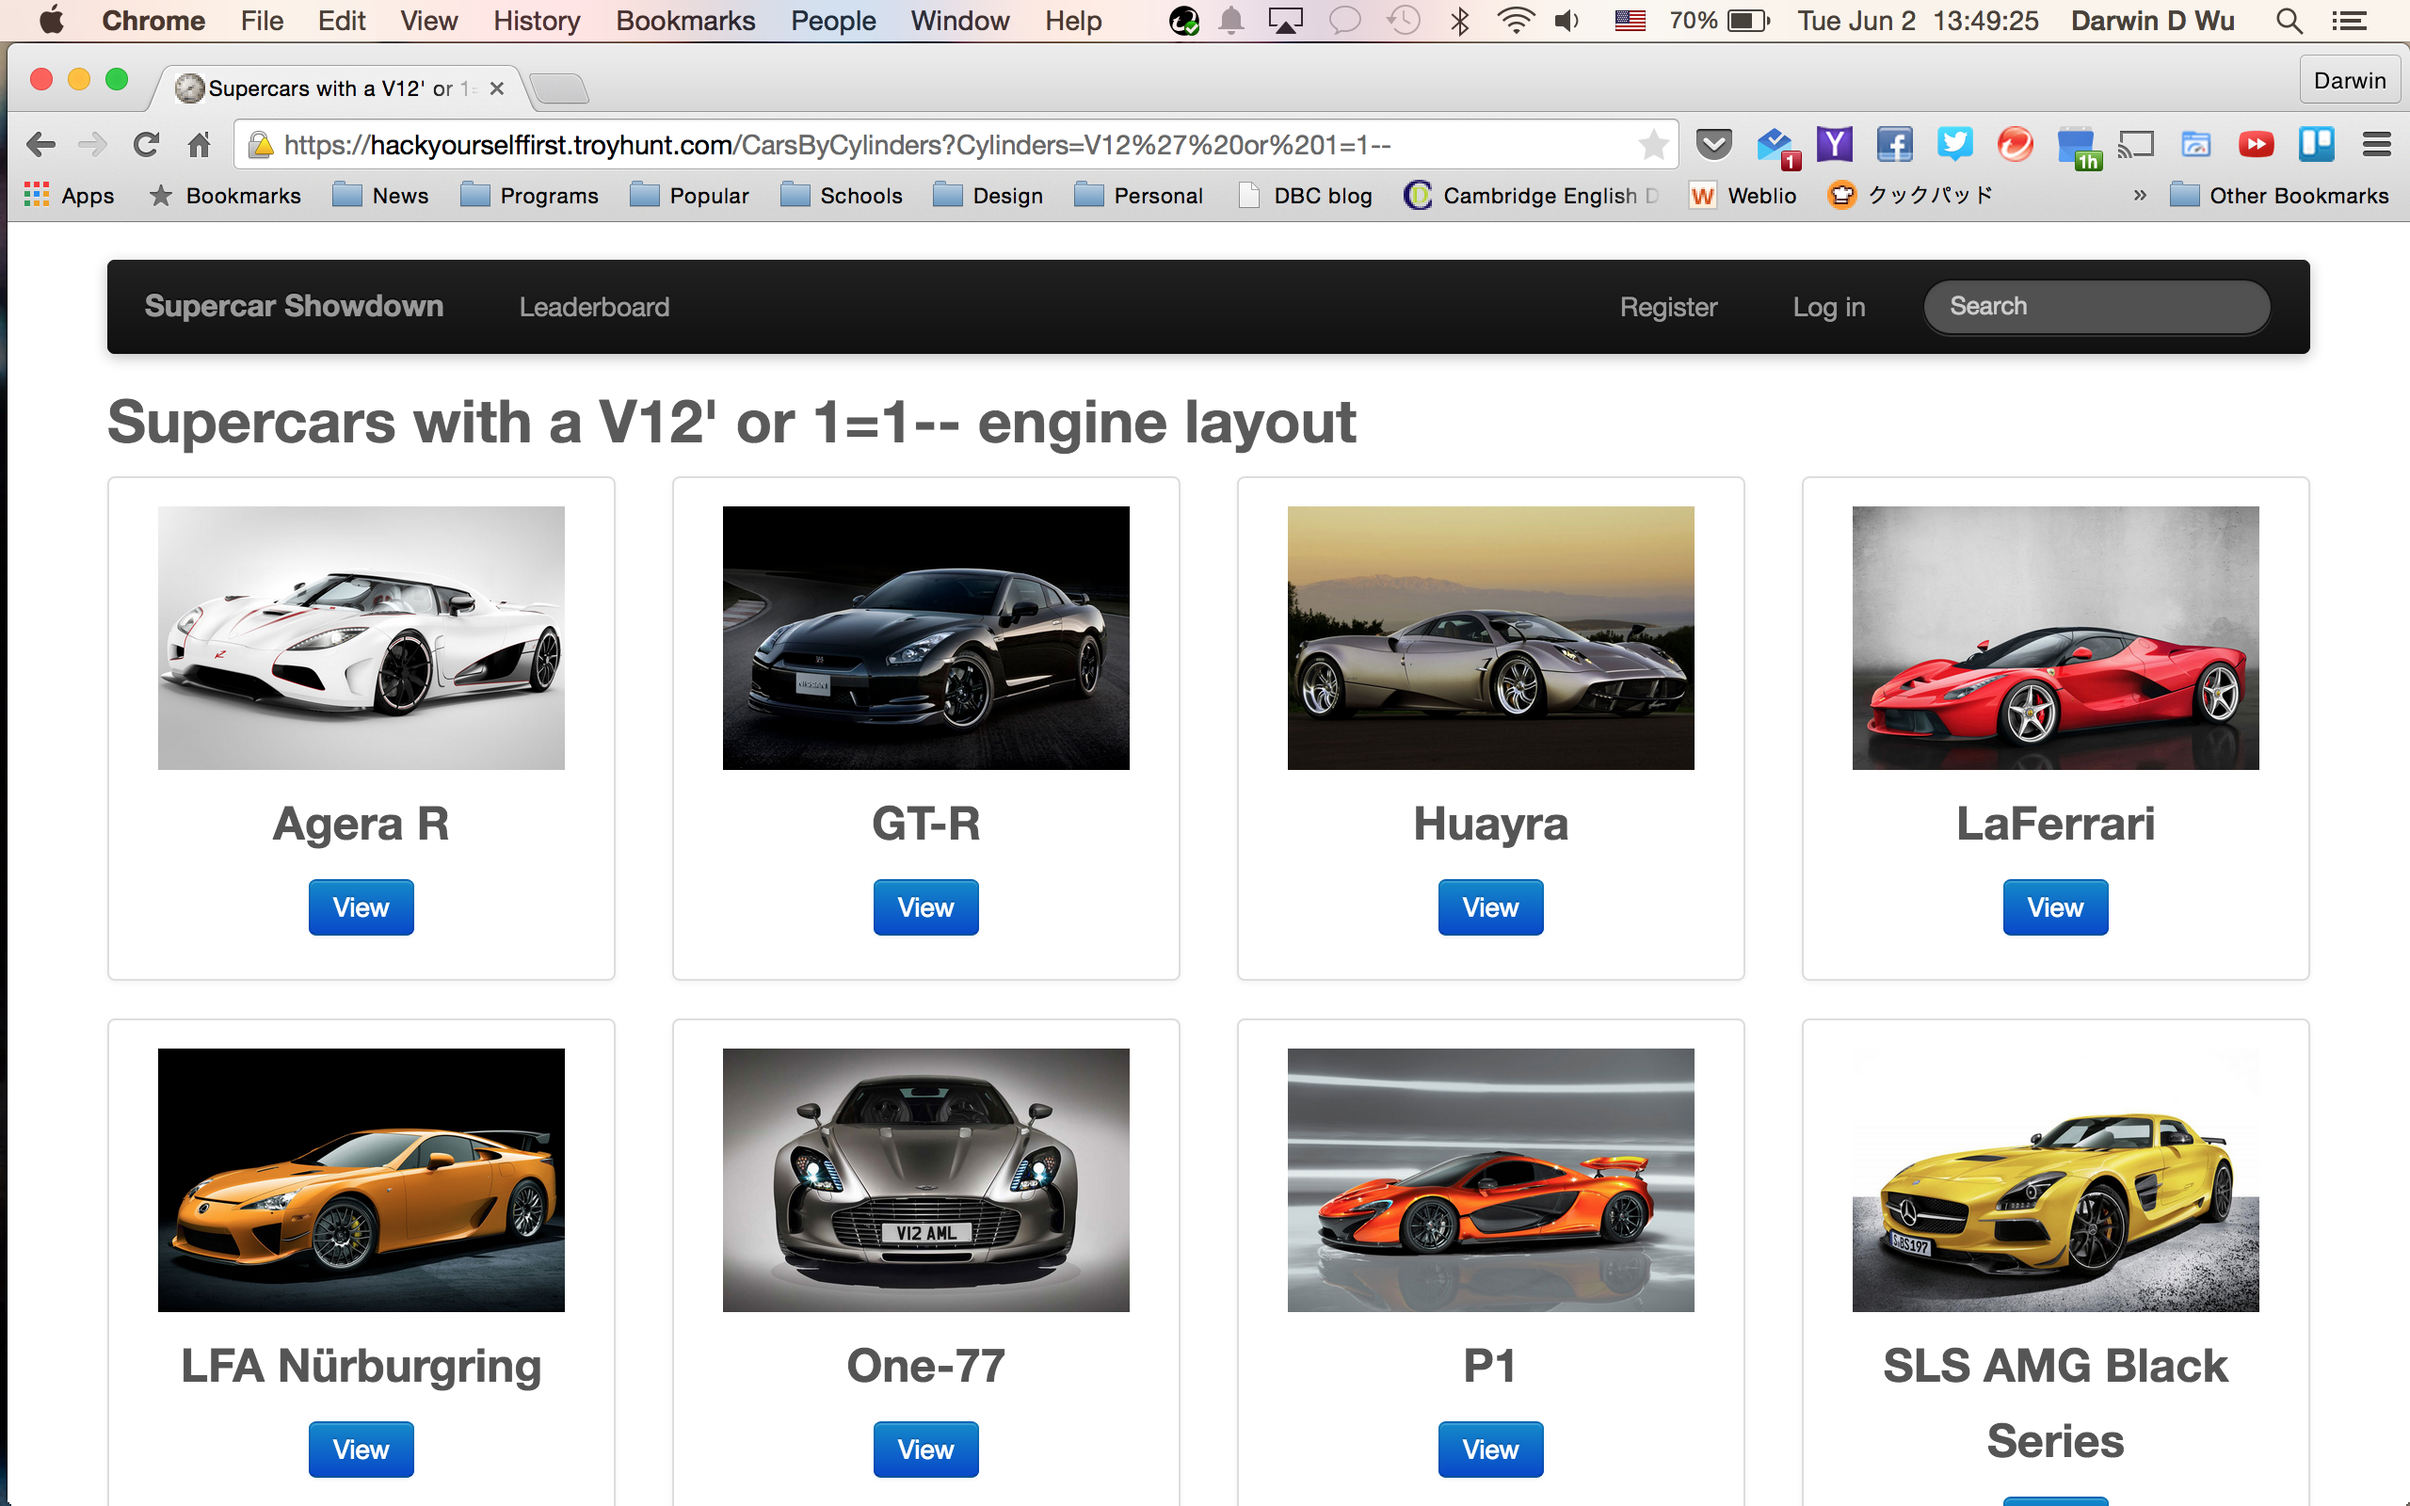
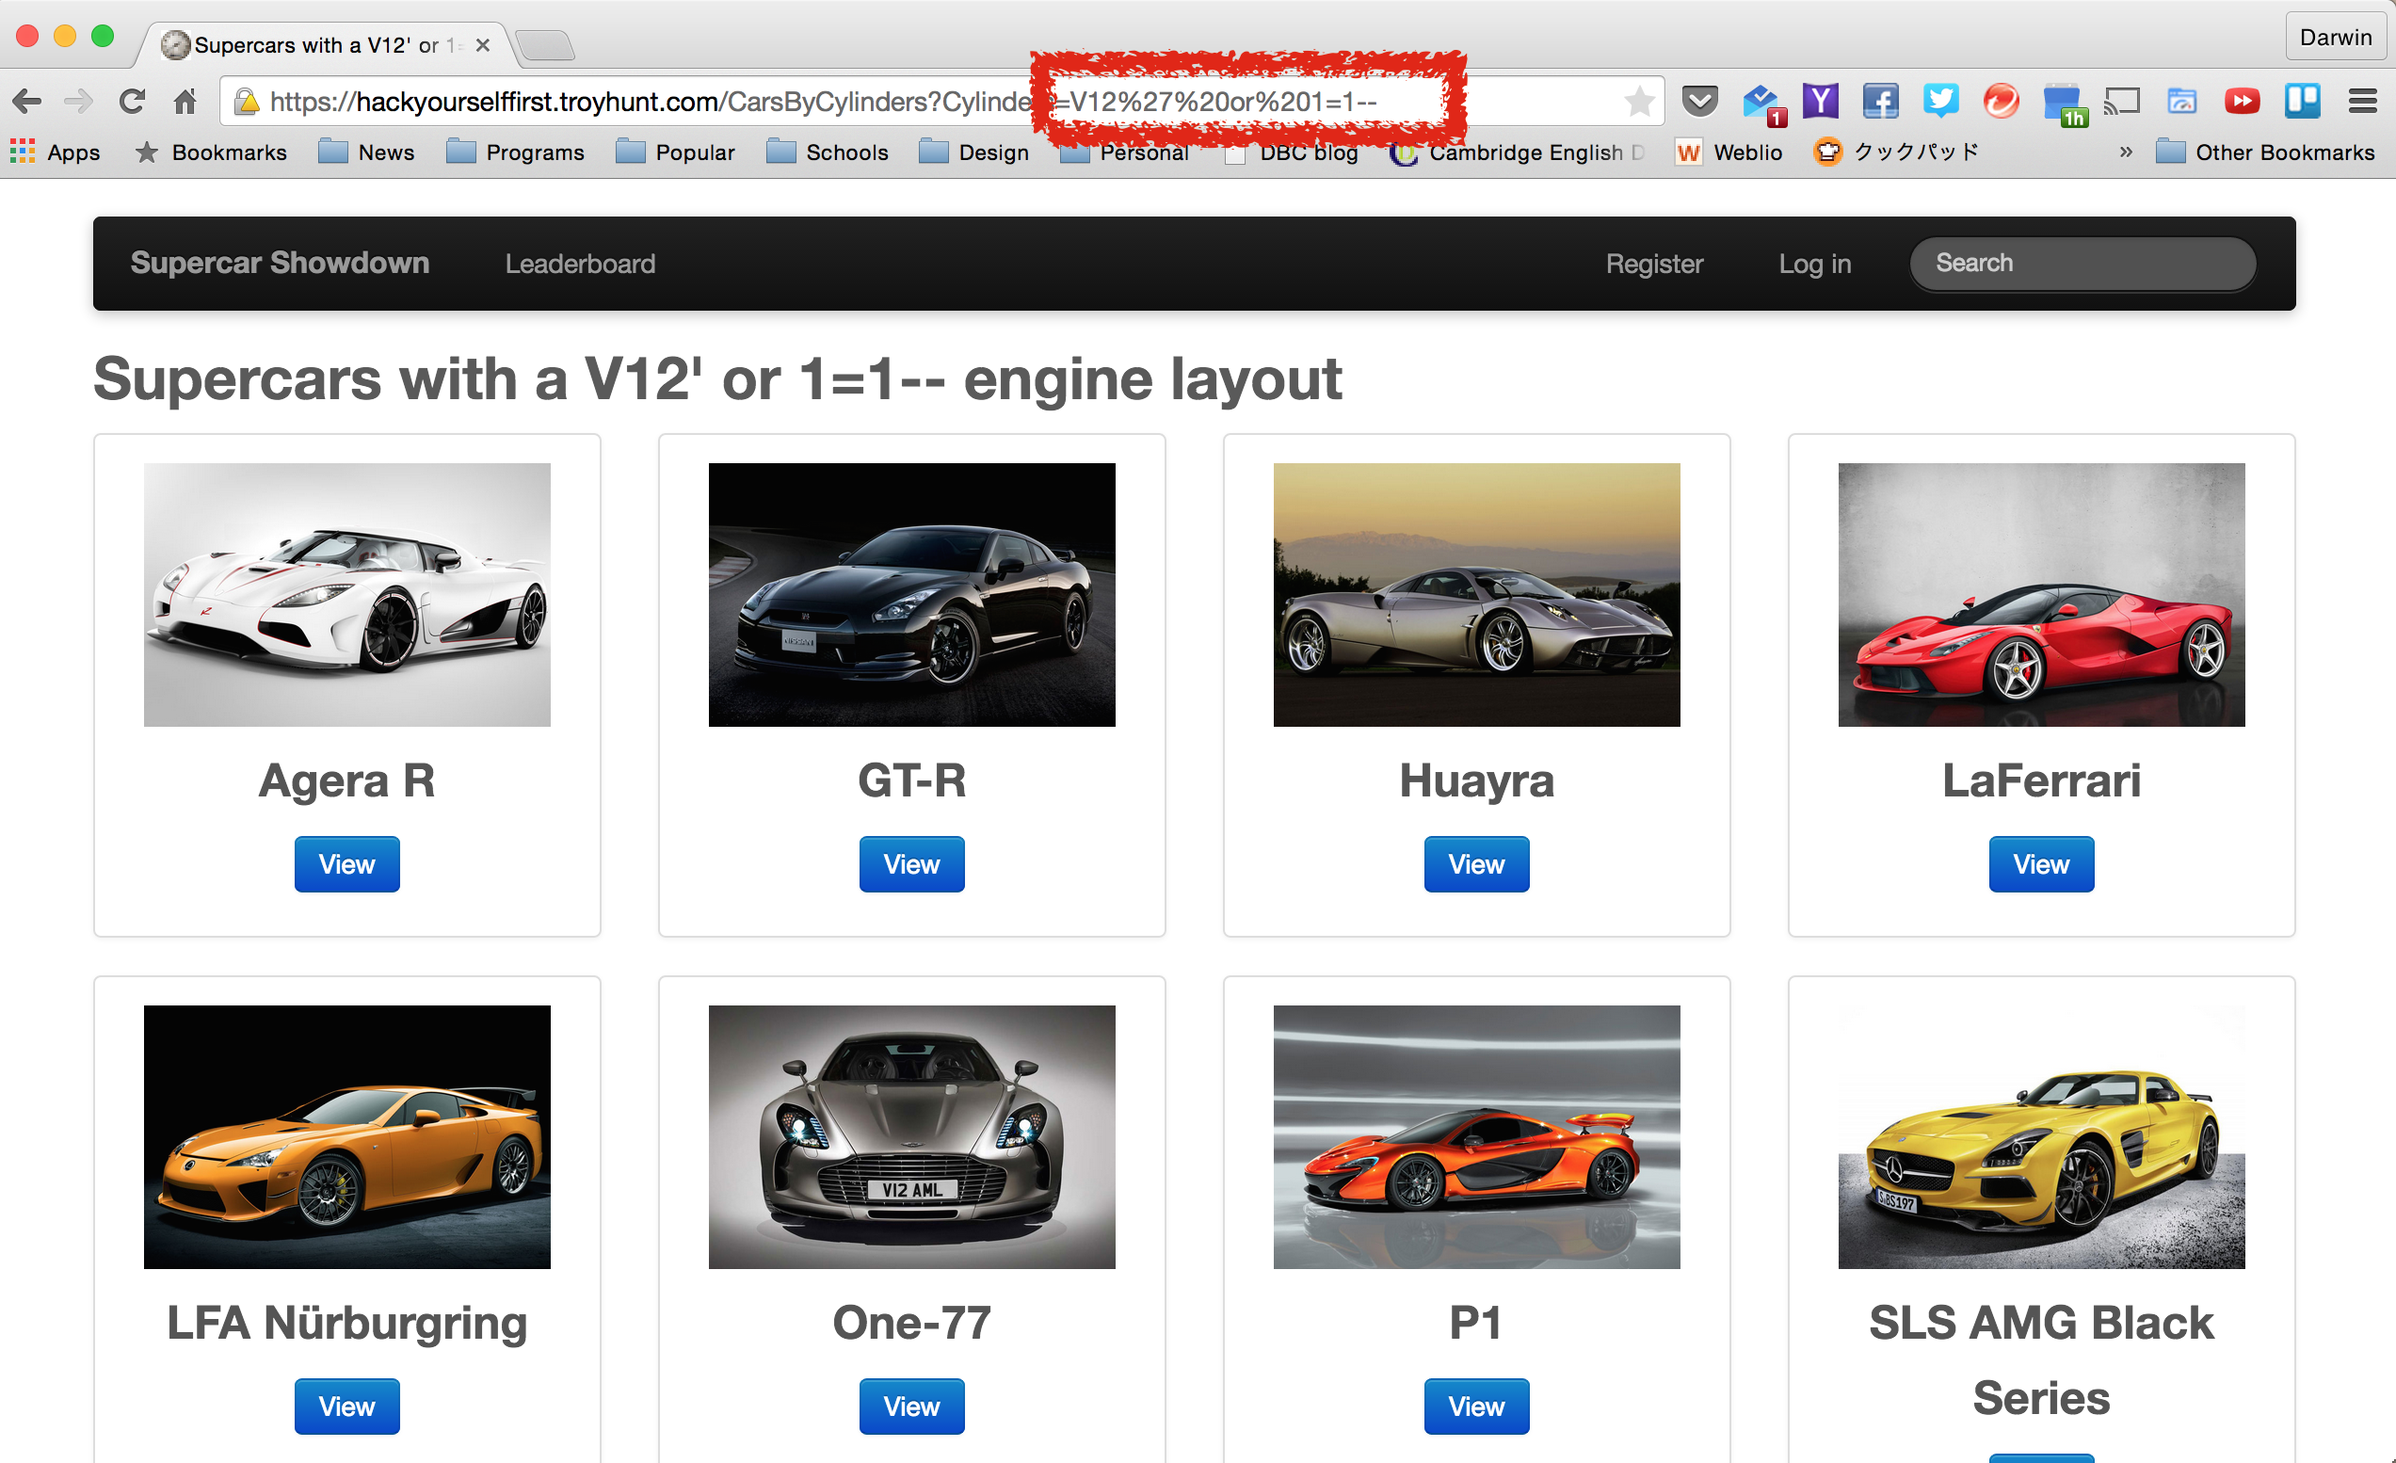
Added Union Exploitation

diff --git a/sql-injection/README.md b/sql-injection/README.md
@@ -4,29 +4,66 @@ Samples of security vulnerabilities
 ## About
 A SQL Injection attack consists of insertion or "injection" of a SQL query via the input data from the client to the application. A successful SQL injection exploit can read sensitive data from the database, modify database data (Insert/Update/Delete), execute administration operations on the database (such as shutdown the DBMS), and more!  
 
-- Always True Injection
-- Error Based Injection
-- Boolean Injection
-- Time Based Injection
-- Blind Injection
+- Standard Injection
+- Union Exploitation
+- Error Based Exploitation
+- Boolean Exploitation
+- Time Delay Exploitation
   
 etc.
 
 
-#### Always True Injection
-One of the most famous attacks are the `1=1 Always True` attack. If this injection is successful, the attacker will be able to pull out all the data from the table. The sample below is a example of an injection from the URL.
+#### Standard Injection
+One of the most famous attacks are the `1=1 Always True` standard injections. If this injection is successful, the attacker will be able to pull out all the data from the current table. The sample below is a example of an injection from the URL.
 ```
 www.example.com/users/1' or 1=1--
 ```
-![Always True Injection sample](img/always-true.png)
-Basicly SQL injection always starts with a quote(`' or "`), because when the sample url above is used to query the database, the underlying SQL query will most likely to be a string like this.
+
+Sample Picture
+![Standard Always True Injection sample](img/always-true.png)
+*%27 and %20 is how the browser interpret ' and space*
+
+
+Basicly SQL injections always start with a quote(`' or "`), because when the sample url above is used to query the database, the underlying SQL query will most likely to be a string like this.
 ```sql
 SELECT * FROM users
 WHERE users.id = '1'
 ```
 Therefore, adding a quote to the end of the URL will end that query and you are able to add additional commands to it. `1=1` or `x=x` are the most seen examples but it doesn't matter what you put at both sides of the `=` as long as they are the same things. The result of this query will be always be `true`, which means that the database will take out everything it can find and that means *everything*.
-The `--` after `1=1` is the comment syntax in SQL. By adding this to the end of the injection, it will comment out any other following commands if they exist. Therefore the injected query will be the last thing for the database to see, and will give the hacker everything they are looking for.
+The `--` after `1=1` is the comment syntax in SQL. By adding this to the end of the injection, it will comment out any other following commands after the injected query. Therefore the injected query will be the last thing for the database to see, and will give the hacker everything they are looking for.
 
 
-#### Error Based Injection
-Error based injections are a way for an attacker to gain information about the database by intentionally passing the wrong syntax when injecting queries.
+
+#### Union Exploitation
+The Union operator is used in SQL injections to join a extra query to the original query purposely by the attacker. The result of the forged query will be joined with the original query and allows the attacker to gain access to the columns and values of other tables. An example of a Union Injection in the URL will look like this.
+```
+www.example.com/users/1' union select 1,1 from vote--
+```
+The SQL query in the example above is trying to do something like this.
+```
+SELECT * FROM users
+WHERE users.id = 1
+UNION
+SELECT 1, 1 FROM votes
+```
+What this query is trying to do is to first select a user from the user table with the id 1 *and also* select the column 1 and 1 from the table votes. I suppossed some people are confused at this point. What in the world does `1, 1` do? This is actually a combination of Union Exploitation and Error Based Exploitation (I will go into details about this later). In the place of `1, 1`, it would be replaced column names of the table the attacker is looking for. So I think it will make more sense if I write it like this.
+```
+SELECT * FROM users
+WHERE users.id = 1
+UNION
+SELECT votes.id, votes.user_id FROM votes
+```
+This is an effective way of extracting values from the database when you know the name of the tables or columns.
+
+Abstract example
+```
+<URL>' union select <column name> from <table name>
+```
+
+
+
+#### Error Based Exploitation
+Error based injections are a way for an attacker to gain information about the database by intentionally passing the wrong syntax when injecting queries. It's a way for an attacker to guess what kind of tables or columns there are in the database.  
+  
+Sample Picture
+![Union Exploitation sample](img/union.png)
